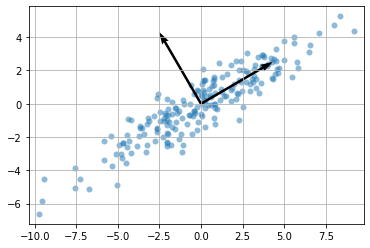
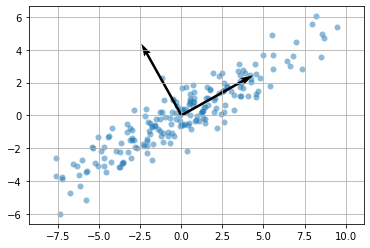
deploy: bd091ea647d80b9bc3fcd8ec3b6852a3f1c9b480

diff --git a/searchindex.js b/searchindex.js
@@ -1,1 +1,1 @@
-Search.setIndex({docnames:["index","notebooks/01_linear_systems","notebooks/02_LU_decomposition","notebooks/03_polynomial_interpolation","notebooks/04_spline_interpolation","notebooks/05_finite_difference_method","notebooks/06_least_squares_regression","notebooks/07_pca","notebooks/08_deblurring_images","notebooks/09_computed_tomography","notebooks/10_computing_eigenvalues","notebooks/11_pagerank","notebooks/12_fft","notebooks/13_convolution","notebooks/IntroFirstLecture","notebooks/IntroductionToPythonPart1","notebooks/IntroductionToPythonPart2","notebooks/Untitled"],envversion:{"sphinx.domains.c":2,"sphinx.domains.changeset":1,"sphinx.domains.citation":1,"sphinx.domains.cpp":3,"sphinx.domains.index":1,"sphinx.domains.javascript":2,"sphinx.domains.math":2,"sphinx.domains.python":2,"sphinx.domains.rst":2,"sphinx.domains.std":1,"sphinx.ext.intersphinx":1,sphinx:56},filenames:["index.md","notebooks/01_linear_systems.ipynb","notebooks/02_LU_decomposition.ipynb","notebooks/03_polynomial_interpolation.ipynb","notebooks/04_spline_interpolation.ipynb","notebooks/05_finite_difference_method.ipynb","notebooks/06_least_squares_regression.ipynb","notebooks/07_pca.ipynb","notebooks/08_deblurring_images.ipynb","notebooks/09_computed_tomography.ipynb","notebooks/10_computing_eigenvalues.ipynb","notebooks/11_pagerank.ipynb","notebooks/12_fft.ipynb","notebooks/13_convolution.ipynb","notebooks/IntroFirstLecture.ipynb","notebooks/IntroductionToPythonPart1.ipynb","notebooks/IntroductionToPythonPart2.ipynb","notebooks/Untitled.ipynb"],objects:{},objnames:{},objtypes:{},terms:{"00000000e":10,"005":[3,4],"01770738":11,"01770745853595147":11,"01785714":14,"01942114":11,"019421279035154358":11,"020169972924233483":11,"02017003":11,"021311938344943104":11,"02131198":11,"02193776":11,"021937862655879596":11,"022083002206294312":11,"0220831":11,"02494214":11,"024942160037662708":11,"02531937":11,"02531958513478689":11,"032639671745564314":11,"03263985":11,"03703704":14,"0375":11,"037500000000000006":11,"04058526837698405":11,"04058535":11,"04262304":11,"04262309034915124":11,"04860707":11,"048607261289628965":11,"05190652":11,"05190683619612836":11,"05736769":11,"0573677113789463":11,"05952284":11,"05952296970430072":11,"06617773":11,"06617804962445283":11,"07106781e":10,"08406075":11,"08406093298254406":11,"100":[3,5,10,11,12,14],"1000":[6,14],"10244901015399217":11,"10244902":11,"1056":7,"10mm":[1,2,5],"1100":12,"11111111":14,"115575244":3,"1168721825991377":11,"11687264":11,"11764706e":10,"120":9,"12429375672426346":11,"1242946":11,"13793103e":10,"14213562e":10,"14285714":14,"14609758":6,"14844492":6,"150":10,"1525":16,"16071429":14,"16666667":1,"1797":7,"180":16,"1a19a4a092db":15,"200":[3,4,7,8,9,14],"214":15,"215":15,"216":15,"217":15,"218":15,"220446049250313e":1,"23313981e":10,"24650102e":10,"24712881730381647":11,"24720132":11,"24782":8,"256":[8,14],"2q_k":5,"2x_1":[14,15],"32083333":11,"3236":16,"331042560716":8,"33333333":[1,2,11,14],"33333333e":10,"33486385":6,"368":10,"36886114e":10,"375":14,"38617379e":10,"39797215e":10,"3x3":15,"3x_2":[14,15],"40000000e":10,"41176471e":10,"41379310e":10,"41421356":10,"41421356e":10,"432x288":8,"43829925e":10,"44100":12,"45293347e":10,"46202587233194":10,"4622314739834":10,"4625":11,"46809736":11,"46824236539236713":11,"49999998":10,"4x_3":[14,15],"500":[6,12],"50000002":10,"50383318":7,"512":14,"52409613e":10,"530258040767446":4,"568d911ab75d":15,"5x_2":[14,15],"6289977":3,"66666667":[1,10],"6724":9,"68965517":10,"6pm":0,"70710675":10,"70710678":10,"70710681":10,"72413793":10,"750":12,"76358907e":10,"77302319e":10,"7762752":9,"78204976":6,"78720":9,"7x_3":[14,15],"809":16,"8284271247461903":15,"83766754":6,"86380097":7,"88235294e":10,"8875":11,"8x_3":[14,15],"90926744e":10,"9832831":6,"9840":9,"99957267":6,"default":12,"final":[15,16],"function":[1,2,4,6,7,8,10,11,15],"import":[1,2,3,4,5,6,7,8,9,10,11,12,14,15,16],"new":15,"return":[2,15,16],"true":[2,3,4,5,7,11,12,14],"try":3,And:[9,15,16],Axes:8,But:[3,14,15],For:[5,15,16],Such:15,That:[2,3,7,14,15],The:[0,1,2,3,4,5,6,7,9,10,14,15,16],Then:[10,14],There:[6,7,15,16],These:9,Use:[6,8],With:2,_eval_col_insert:15,a_0:10,a_2:5,a_c:[8,14],a_k:[5,9,10],a_k_plu:9,a_n:5,a_r:[8,14],about:[1,14,15,16],abov:[15,16],abs:[10,12],absolut:[2,10],ac_k_plu:[8,14],access:0,account:0,accur:15,actual:[9,15],acut:16,added:[0,4],addit:[0,14,15],adjac:11,adjacency_matrix:11,after:9,again:[6,15],algebra:[1,16],algorithm:[7,10],align:[2,3],all:[0,4,10,14,15],almost:6,alpha:[5,6,7,11,14],alreadi:15,also:10,alwai:2,amp:1,analys:15,angl:[7,9,12],ani:[0,2,15],anoth:15,answer:[0,15],append:3,applic:15,approx:5,approxim:[1,5,10,15],ar_k_plu:[8,14],arang:[8,12,14],arbitrari:6,aren:15,around:[3,15],arrai:[1,2,3,4,5,6,7,10,11,14,15],assign:0,assum:[0,14],astyp:[8,14],attent:16,aug:15,augment:15,averag:7,avoid:[8,9],axi:[5,7,11],b_1:5,b_2:5,b_e:9,b_k:5,b_n:5,base:6,basi:7,bc_type:4,becaus:3,been:7,befor:[0,6],begin:[1,2,3,5,6,14,15,16],belong:15,best:[6,15],beta:5,better:15,between:14,binari:[7,8],bit:16,block:[8,10],blur:14,bmatrix:[1,2,3,5,6,14,15,16],boldsymbol:[1,3],bone:9,bore:15,both:8,boundari:5,browser:[0,12],bug:15,build:6,c_0:[3,6],c_1:[3,5,6],c_1t:6,c_1t_1:3,c_1t_2:3,c_1t_d:3,c_1x:6,c_2:[3,5,6],c_2t:6,c_2x:6,c_d:[3,6],c_dt:6,c_k:[3,5],calcul:[6,15,16],call:[2,3,6,15,16],can:[0,6,9,10,14,16],canva:0,capabl:15,captur:7,cccccccc:[1,2],cd_d:6,cdot:[1,2,3,5,6],cell:16,chang:[3,4],check:[0,2,8,15],choic:6,choleski:2,choos:[5,10],circuilt:1,clear:15,clearli:15,click:0,clim:7,cmap:[2,7,8,9,11,14],coefficeint:6,coeffici:[3,4,6],col:[15,16],col_del:15,col_insert:15,collect:9,colorbar:[2,7,8],column:[2,6,7,8,15,16],column_stack:[6,7,14],columnspac:15,combin:8,come:15,command:15,common:[6,15],compar:[2,4,5,9,10,11,16],comput:[0,1,2,4,6,7,8,14,15,16],comut:2,concaten:5,cond:[3,4,8],condit:[3,5,8],confus:16,consid:[3,4,5],consist:1,constant:[1,15],constraint:14,construct:[4,6,14],contain:9,continu:4,converg:10,copi:12,correct:[6,15],correspond:[3,9,10],cos:[5,7,12],cours:[0,15],creat:[1,3,8,11,15,16],cs1:4,cs2:4,cs3:4,csc:9,csc_matrix:9,cube:16,cubic:3,cubicsplin:4,current:[0,1],cwl:0,data:[3,4,8,9,16],datapoint:14,dataset:9,dc_k_plu:[8,14],ddot:[1,2,3,5],decomposit:[7,10],decreas:8,defin:[4,5,10,15],definit:[2,11],degre:[3,6],demonstr:6,denot:5,deploi:0,describ:14,det:15,detail:0,determin:15,devic:14,dft:12,diag:[1,2,5,8,9,14,15],diagon:[8,10],did:15,differ:[6,9,16],differenti:5,digraph:11,dimens:16,dimension:16,direct:[8,11],discret:5,discuss:16,displai:12,displaystyl:15,distribut:6,document:2,doe:[12,14,15],domain:5,domin:10,done:[0,15],dot:[1,3,4,6,7],doubl:15,down:[14,15],dr_k_plu:[8,14],draw:11,due:[1,15],each:[3,4,5,7,9,10],earth:14,echelon:15,econom:6,edg:11,effici:7,eig:10,eigenvector:10,eignvalu:10,element:12,elementwis:16,elimin:2,ell_:2,email:14,end:[1,2,3,5,6,14,15,16],enough:15,entri:[2,15,16],epsilon:6,equal:[2,3,7,15],equat:[3,5,14,15,16],error:[1,6,9,14,15],ethan:0,eval:10,evec:10,even:16,everi:[0,7],exact:[1,5],exactli:6,exampl:[9,16],exercis:14,exist:3,exponenti:15,express:6,eye:[1,2,15,16],f1931db3b9ae:15,factor:6,fals:[2,7],familiar:0,faulti:14,figsiz:[3,7,9,12],figur:[3,7,8,9,12],file:[0,9],find:[2,8,11,14,15,16],fine:14,finish:15,finnish:9,fip:9,first:[0,2,6,7,15],flatten:7,float64:[8,14],follow:[0,9,14,15],form:[2,5,6,14,15],format:10,formula:5,found:0,four:15,frac:[5,7,10],from:[3,4,6,7,8,9,12,14,15,16],fun:15,gaussian:[2,7],gener:[5,6,14,15],get:[14,15,16],get_cmap:7,give:[3,14,15],given:[3,4,14],glimp:15,goal:6,good:10,googl:11,google_matrix:11,grai:[8,14],grid:[3,4,5,7,12,14],hand:2,handwritten:7,happen:3,has:[2,6,7,10,14,15,16],hat:[1,9],have:[0,6,9,10,14,15,16],help:15,homework:14,horizont:8,hour:0,how:[8,14,15,16],howev:[7,9,15,16],hspace:[1,2,5],hstack:[8,14],hub:0,huge:9,i_1:1,i_n:1,idea:6,ident:16,ifft:12,imag:7,implement:[7,10],imread:[8,14],imshow:[2,7,8,9,14],includ:7,inconsist:15,increas:[3,10,14],inde:10,index:[1,9,15],indic:15,inform:[0,7,14],infti:10,input:15,insert:15,instal:0,instructor:0,interest:16,internet:15,interpol:7,interst:15,interv:[6,14],introduc:[3,5],introduct:0,inv:15,invers:[9,15],invert:[9,10,15],ipython:[12,15],irrat:15,iter:11,its:16,jet:7,jpg:[8,14],jupyt:0,just:[6,15],keep:16,kitten:[8,14],know:[3,10,15],knowledg:0,l_1:2,l_2:2,lambda:10,lambda_1:10,lambda_n:10,languag:15,larg:[3,9],largest:9,last:[15,16],later:15,learn:[1,7,15],least:[6,14],left:[1,2,5,6,8,14,15],len:3,length:[7,16],leq:2,less:2,let:[2,3,4,5,6,7,8,9,10,14,15,16],lib:15,librari:[15,16],like:14,linalg:[2,3,4,5,6,7,8,9,10,11,12,14,16],line:6,linear:[4,5,14,15,16],linearli:8,linewidth:[6,14],link:0,linspac:[3,4,5,6,14],list:16,llet:5,load_digit:7,loadmat:[8,9,14],local:15,locat:7,look:[6,9,14],loop:1,lot:[14,15],lower:2,lu_factor:10,lu_solv:10,machin:[7,15],magnitud:12,mai:16,mainli:15,make:15,mani:15,markers:[3,4,14],mat:9,math:15,mathbb:[7,15],mathbf:[2,5,6,7,9,10,14],mathemat:[0,1],matlab:16,matplotlib:[1,2,3,4,5,6,7,8,9,10,11,12,14,15],matric:[6,9,15,16],matrix:[1,2,3,4,6,7,8,10,11,14,15],matrix_pow:16,max:10,mean:[6,7,10],measur:14,memori:9,method:[6,10,11,16],minim:[6,14],mode:6,model:1,modul:15,modulenotfounderror:15,more:15,most:[6,7,14,15],mpow:16,multipl:[8,10,15],multiplc:16,multipli:15,must:[15,16],n_link:11,n_page:11,nak:10,name:15,nameerror:15,nbyte:9,ndarrai:[1,9],ndim:16,need:[0,8,9,15,16],neg:15,networkx:11,next:15,nice:3,niter:10,nmax:3,node_color:11,nois:[3,4,6,9,14],non:15,none:5,norm:[1,10],normal:[7,10],normliz:7,notat:[5,6],note:[0,11,15],notebook:[0,13],notic:16,now:[2,4,6,10,14,15],nullspac:15,number:[3,6,8,10,14,15,16],numer:[15,16],numpi:[1,2,3,4,5,6,7,8,9,10,11,12,14,15],nxk:10,object:16,off:15,offic:0,onc:0,one:[15,16],ones:[1,2,5,6,8,11,14,15],onli:15,onto:7,oper:15,order:[5,9,15],ordinari:5,origin:7,orthogon:7,orthonorm:7,other:[10,14,15],our:[1,4,11,15,16],out:15,output:16,p_1:[4,5],p_2:4,p_k:[4,5],p_n:[4,5],packag:[1,7,15],page:0,parabola:3,parallel:1,part:0,partial:2,particular:9,paus:10,pca:7,perform:[0,11,16],permut:2,phantom:2,phase:12,phi:12,piecewis:4,pivot:[2,15],pixel:7,plai:15,pleas:0,plot:[1,2,3,4,5,6,7,14],plt:[1,2,3,4,5,6,7,8,9,10,11,12,14],plu:2,point:[3,4,6,7],polyniomi:3,polynomi:4,pos:[11,15],posit:[1,2],post:0,power:11,precis:15,prepar:9,pretti:10,previou:14,print:[1,2,3,6,10,14,16],prior:0,problem:[9,15,16],produc:10,program:15,proj:9,project:[7,14],provid:9,pseudoinvers:[8,9,14],pst:0,pyplot:[1,2,3,4,5,6,7,8,9,10,11,12,14],python3:15,python:7,q_1:6,q_1r_1:6,q_k:10,qtc:[8,14],qtr:[8,14],quad:[14,15],quantifi:6,question:0,quick:16,quiver:7,quotient:10,r_1:[5,6],r_2:5,r_k:[5,10],r_n:5,rai:9,rais:15,rand:[6,14],randint:[4,9,11],randn:[3,4,6,7,8,10,14],random:[3,4,6,7,8,9,12,14],rang:[3,7,9,10,11],rank:9,rate:12,rather:15,rayleigh:10,rcparam:12,reach:14,real:[10,12],rearrang:5,recal:16,recent:[0,15],record:8,reduc:15,repeat:[5,10],repres:[1,6,8,9],requir:[0,16],resembl:14,reshap:[4,7,9,16],residu:1,result:[2,4,6,7,9,10,16],retriev:6,review:16,right:[0,1,2,5,6,7,8,14,15],rocket:0,round:1,row:[2,6,7,8,9,15,16],row_insert:15,rrcrr:5,rref:15,rrr:2,run:0,sagemath:15,said:15,same:[6,8,10,15,16],sampl:[6,9],save:9,saw:16,scalar:15,scale:7,scale_unit:7,scatter:[6,7,14],scientist:14,scipi:[2,3,4,5,6,7,8,9,10,11,12,14,15,16],second:5,see:[6,10,14,15],seek:7,select:[7,16],self:15,sensit:[3,4],set:[6,12,14],set_cmap:8,shape:[6,7,8,9,15,16],shapeerror:15,show:[1,2,3,4,5,6,7,8,9,12,14,15],side:[0,14],sigma:7,sign:0,similar:10,sin:[3,4,7],sinc:[10,15],singular:[7,9],site:15,size:[1,3,4,5,8,10,12,15,16],sklearn:7,sla:9,sleep:10,slice:16,small:[3,4,15],smallest:10,smooth:4,societi:9,softwar:0,solut:[1,2,3,5,6,14],solv:[2,3,4,5,6,8,9,14],solve_triangular:2,some:[1,3,6,8,14,15,16],space:[3,15],spars:9,specifi:15,spring_layout:11,spy:9,sqrt:[10,15],squar:[1,6,8,9,14],sse:6,standard:6,start:[3,10],stem:12,step:10,still:[0,14],stochast:11,student:0,subinterv:4,subpackag:16,subplot:[9,12],substitut:5,substract:15,subtract:7,sum:[3,6,11,12],sum_:7,sum_i:6,support:12,suppos:[6,10],svd:[7,14],symbol:[15,16],symmetr:[2,10,16],sympi:16,system:[2,3,4,5,6,14,15],syzygi:0,szgygi:0,t_0:[3,4,5,6],t_1:[3,6],t_2:3,t_d:3,t_f:5,t_i:6,t_k:[3,4,5],t_n:[3,4,6],tab:0,take:[0,15,16],talk:16,target:7,tell:15,term:0,than:[2,15],thei:[10,16],theme:15,therefor:[2,8,10],theta:7,thi:[0,2,3,6,10,14,15,16],thin:6,think:16,though:16,through:9,throughout:0,tick:7,tild:10,time:[6,7,8,10,15,16],titl:[3,12],toarrai:11,todai:16,toeplitz:14,tomograph:9,total:16,traceback:15,track:16,transpos:[11,15,16],triangular:[2,6,10],truncat:14,tupl:[15,16],tutori:15,two:[0,6,7,16],type:[1,9,16],ubc:0,unblur:14,uniqu:[3,6,15],unit:2,unknown:3,updat:0,upload:0,upper:[0,2,6,10],use:[0,4,6,7,9,14,16],use_line_collect:12,used:[0,11],useful:16,using:[0,1,2,3,6,8,14,16],usual:10,valu:[2,3,4,7,8,9,10,15,16],vander:[3,14],vandermond:[3,6],variabl:[15,16],varianc:7,vdot:[1,2,3,5,6],vector:[6,7,9,10,11,15,16],veri:[3,14],verifi:[2,4,16],vert:6,vertic:[8,11],visual:9,wai:[6,15],walnut:9,want:[4,6,15,16],wednesdai:0,week:0,weight:7,what:[3,6,15],when:[3,15,16],where:[1,2,5,6,8,9,15,16],which:[0,3,6,7,10,14,15,16],white:0,whole:15,why:15,winter:[2,11],with_label:11,without:[0,2,10],word:14,work:[6,15],write:[14,15],wrong:15,x2d:7,x_0:14,x_1:[14,15],x_2:14,x_3:14,x_filter:12,xlabel:[1,3],y_0:[3,4,6,14],y_1:[3,5,6,14],y_2:[3,5,14],y_3:14,y_angl:12,y_d:3,y_filter:12,y_i:6,y_k:[3,4,5],y_n:[4,5,6],yes:[14,15],yield:[3,5],yike:3,ylabel:1,you:[0,14,16],your:[0,12,15],yourself:0,zero:[5,8,11,14,15]},titles:["MATH 307 Applied Linear Algebra","Linear Systems of Equations","LU Decomposition","Polynomial Interpolation","Natural Cubic Spline Interpolation","Finite Difference Method","Fitting Models to Data","Principal Component Analysis","Deblurring Images","Computed Tomography","Computing Eigenvalues","PageRank","Discrete Fourier Transform","Test page","MATH 307  \u2013   What is it useful for","Introduction to Python - Part 1","Introduction to Python - Part 2: NumPy","&lt;no title&gt;"],titleterms:{"307":[0,14],"function":16,"true":9,"try":15,algebra:0,alwai:15,analysi:7,appli:0,arithmet:16,arrai:16,attribut:16,audio:12,befor:15,blur:8,can:15,check:16,compon:7,comput:[9,10,12],cubic:4,data:[6,7,14],dataset:7,deblur:[8,14],decomposit:[2,6],differ:5,digit:7,discret:12,eigenvalu:10,equat:[1,6],exampl:[1,2,3,4,5,6,11,12,15],fake:[6,7],fft:12,filter:12,finit:5,fit:6,fourier:12,graph:11,imag:[8,14],interpol:[3,4,14],introduct:[15,16],invers:10,invert:8,iter:10,linalg:1,linear:[0,1,6],math:[0,14],mathbf:1,matric:[8,10],matrix:[9,16],measur:9,method:5,model:6,multipl:16,natur:4,network:1,nois:8,noisi:6,normal:6,numpi:16,oper:16,page:13,pagerank:11,part:[15,16],plai:12,point:14,polynomi:[3,6],power:[10,16],princip:7,project:9,python:[0,15,16],quadrat:6,random:[10,11],read:15,regress:6,resistor:1,scipi:1,should:15,signal:12,sinogram:9,sinusoid:12,small:11,solut:[9,15],solv:[1,15],spline:4,svd:[8,9],sympi:15,system:1,test:13,them:15,toeplitz:8,tomographi:9,trace:16,tranpos:16,transform:12,truncat:[8,9],understand:16,use:15,useful:14,what:14,you:15,your:16}})
+Search.setIndex({docnames:["index","notebooks/01_linear_systems","notebooks/02_LU_decomposition","notebooks/03_polynomial_interpolation","notebooks/04_spline_interpolation","notebooks/05_finite_difference_method","notebooks/06_least_squares_regression","notebooks/07_pca","notebooks/08_deblurring_images","notebooks/09_computed_tomography","notebooks/10_computing_eigenvalues","notebooks/11_pagerank","notebooks/12_fft","notebooks/13_convolution","notebooks/IntroFirstLecture","notebooks/IntroductionToPythonPart1","notebooks/IntroductionToPythonPart2","notebooks/Untitled"],envversion:{"sphinx.domains.c":2,"sphinx.domains.changeset":1,"sphinx.domains.citation":1,"sphinx.domains.cpp":3,"sphinx.domains.index":1,"sphinx.domains.javascript":2,"sphinx.domains.math":2,"sphinx.domains.python":2,"sphinx.domains.rst":2,"sphinx.domains.std":1,"sphinx.ext.intersphinx":1,sphinx:56},filenames:["index.md","notebooks/01_linear_systems.ipynb","notebooks/02_LU_decomposition.ipynb","notebooks/03_polynomial_interpolation.ipynb","notebooks/04_spline_interpolation.ipynb","notebooks/05_finite_difference_method.ipynb","notebooks/06_least_squares_regression.ipynb","notebooks/07_pca.ipynb","notebooks/08_deblurring_images.ipynb","notebooks/09_computed_tomography.ipynb","notebooks/10_computing_eigenvalues.ipynb","notebooks/11_pagerank.ipynb","notebooks/12_fft.ipynb","notebooks/13_convolution.ipynb","notebooks/IntroFirstLecture.ipynb","notebooks/IntroductionToPythonPart1.ipynb","notebooks/IntroductionToPythonPart2.ipynb","notebooks/Untitled.ipynb"],objects:{},objnames:{},objtypes:{},terms:{"00000000e":10,"005":[3,4],"01458892":11,"014589006566058464":11,"017688972050492646":11,"01768906":11,"01785714":14,"01812693":11,"0181270930819558":11,"019878680266857223":11,"01987899":11,"02750009904997474":11,"02750024":11,"03501085399942825":11,"0350111":11,"03647761":11,"036477707871008035":11,"03703704":14,"0375":11,"037500000000000006":11,"03788842506466396":11,"03788857":11,"04040475005586697":11,"04040493":11,"04066901355533149":11,"04066909":11,"04260559":11,"04260563287232839":11,"04823005029323108":11,"0482304":11,"05913904":11,"059139498320155796":11,"05995085":6,"06242162":11,"062422135163710174":11,"07106781e":10,"07265656":11,"07265700224035669":11,"07583266932573471":11,"075833":11,"07717481":11,"07717492884774745":11,"07772191":11,"07772199479385326":11,"08945234":11,"08945248457323142":11,"100":[3,5,10,11,12,14],"1000":[6,14],"1056":7,"10652900200801357":11,"10652929":11,"10mm":[1,2,5],"1100":12,"11111111":14,"115575244":3,"11764706e":10,"120":9,"13793103e":10,"14213562e":10,"14285714":14,"150":10,"1525":16,"16071429":14,"16666667":1,"1797":7,"180":16,"1a19a4a092db":15,"200":[3,4,7,8,9,14],"214":15,"215":15,"216":15,"217":15,"218":15,"220446049250313e":1,"23313981e":10,"24650102e":10,"24712881730381647":11,"24720132":11,"24782":8,"256":[8,14],"2q_k":5,"2x_1":[14,15],"32083333":11,"3236":16,"32440207":6,"331042562946":8,"33333333":[1,2,11,14],"33333333e":10,"36886114e":10,"375":14,"381":10,"38617379e":10,"39797215e":10,"3x3":15,"3x_2":[14,15],"40000000e":10,"41176471e":10,"41379310e":10,"41421356":10,"41421356e":10,"432x288":8,"43829925e":10,"44100":12,"45293347e":10,"4625":11,"46809736":11,"46824236539236713":11,"48815899":7,"49999998":10,"4x_3":[14,15],"500":[6,12],"50000002":10,"512":14,"52409613e":10,"530258040767459":4,"568d911ab75d":15,"5x_2":[14,15],"64217655":3,"66666667":[1,10],"6724":9,"68965517":10,"6pm":0,"70710675":10,"70710678":10,"70710681":10,"71885163":6,"72413793":10,"750":12,"76358907e":10,"76806357":6,"77302319e":10,"7762752":9,"78720":9,"7x_3":[14,15],"809":16,"8284271247461903":15,"87275472":7,"88235294e":10,"8875":11,"8x_3":[14,15],"90498146":6,"90926744e":10,"9695150772683":10,"9695150778052":10,"97333208":6,"97394044":6,"9840":9,"default":12,"final":[15,16],"function":[1,2,4,6,7,8,10,11,15],"import":[1,2,3,4,5,6,7,8,9,10,11,12,14,15,16],"new":15,"return":[2,15,16],"true":[2,3,4,5,7,11,12,14],"try":3,And:[9,15,16],Axes:8,But:[3,14,15],For:[5,15,16],Such:15,That:[2,3,7,14,15],The:[0,1,2,3,4,5,6,7,9,10,14,15,16],Then:[10,14],There:[6,7,15,16],These:9,Use:[6,8],With:2,_eval_col_insert:15,a_0:10,a_2:5,a_c:[8,14],a_k:[5,9,10],a_k_plu:9,a_n:5,a_r:[8,14],about:[1,14,15,16],abov:[15,16],abs:[10,12],absolut:[2,10],ac_k_plu:[8,14],access:0,account:0,accur:15,actual:[9,15],acut:16,added:[0,4],addit:[0,14,15],adjac:11,adjacency_matrix:11,after:9,again:[6,15],algebra:[1,16],algorithm:[7,10],align:[2,3],all:[0,4,10,14,15],almost:6,alpha:[5,6,7,11,14],alreadi:15,also:10,alwai:2,amp:1,analys:15,angl:[7,9,12],ani:[0,2,15],anoth:15,answer:[0,15],append:3,applic:15,approx:5,approxim:[1,5,10,15],ar_k_plu:[8,14],arang:[8,12,14],arbitrari:6,aren:15,around:[3,15],arrai:[1,2,3,4,5,6,7,10,11,14,15],assign:0,assum:[0,14],astyp:[8,14],attent:16,aug:15,augment:15,averag:7,avoid:[8,9],axi:[5,7,11],b_1:5,b_2:5,b_e:9,b_k:5,b_n:5,base:6,basi:7,bc_type:4,becaus:3,been:7,befor:[0,6],begin:[1,2,3,5,6,14,15,16],belong:15,best:[6,15],beta:5,better:15,between:14,binari:[7,8],bit:16,block:[8,10],blur:14,bmatrix:[1,2,3,5,6,14,15,16],boldsymbol:[1,3],bone:9,bore:15,both:8,boundari:5,browser:[0,12],bug:15,build:6,c_0:[3,6],c_1:[3,5,6],c_1t:6,c_1t_1:3,c_1t_2:3,c_1t_d:3,c_1x:6,c_2:[3,5,6],c_2t:6,c_2x:6,c_d:[3,6],c_dt:6,c_k:[3,5],calcul:[6,15,16],call:[2,3,6,15,16],can:[0,6,9,10,14,16],canva:0,capabl:15,captur:7,cccccccc:[1,2],cd_d:6,cdot:[1,2,3,5,6],cell:16,chang:[3,4],check:[0,2,8,15],choic:6,choleski:2,choos:[5,10],circuilt:1,clear:15,clearli:15,click:0,clim:7,cmap:[2,7,8,9,11,14],coefficeint:6,coeffici:[3,4,6],col:[15,16],col_del:15,col_insert:15,collect:9,colorbar:[2,7,8],column:[2,6,7,8,15,16],column_stack:[6,7,14],columnspac:15,combin:8,come:15,command:15,common:[6,15],compar:[2,4,5,9,10,11,16],comput:[0,1,2,4,6,7,8,14,15,16],comut:2,concaten:5,cond:[3,4,8],condit:[3,5,8],confus:16,consid:[3,4,5],consist:1,constant:[1,15],constraint:14,construct:[4,6,14],contain:9,continu:4,converg:10,copi:12,correct:[6,15],correspond:[3,9,10],cos:[5,7,12],cours:[0,15],creat:[1,3,8,11,15,16],cs1:4,cs2:4,cs3:4,csc:9,csc_matrix:9,cube:16,cubic:3,cubicsplin:4,current:[0,1],cwl:0,data:[3,4,8,9,16],datapoint:14,dataset:9,dc_k_plu:[8,14],ddot:[1,2,3,5],decomposit:[7,10],decreas:8,defin:[4,5,10,15],definit:[2,11],degre:[3,6],demonstr:6,denot:5,deploi:0,describ:14,det:15,detail:0,determin:15,devic:14,dft:12,diag:[1,2,5,8,9,14,15],diagon:[8,10],did:15,differ:[6,9,16],differenti:5,digraph:11,dimens:16,dimension:16,direct:[8,11],discret:5,discuss:16,displai:12,displaystyl:15,distribut:6,document:2,doe:[12,14,15],domain:5,domin:10,done:[0,15],dot:[1,3,4,6,7],doubl:15,down:[14,15],dr_k_plu:[8,14],draw:11,due:[1,15],each:[3,4,5,7,9,10],earth:14,echelon:15,econom:6,edg:11,effici:7,eig:10,eigenvector:10,eignvalu:10,element:12,elementwis:16,elimin:2,ell_:2,email:14,end:[1,2,3,5,6,14,15,16],enough:15,entri:[2,15,16],epsilon:6,equal:[2,3,7,15],equat:[3,5,14,15,16],error:[1,6,9,14,15],ethan:0,eval:10,evec:10,even:16,everi:[0,7],exact:[1,5],exactli:6,exampl:[9,16],exercis:14,exist:3,exponenti:15,express:6,eye:[1,2,15,16],f1931db3b9ae:15,factor:6,fals:[2,7],familiar:0,faulti:14,figsiz:[3,7,9,12],figur:[3,7,8,9,12],file:[0,9],find:[2,8,11,14,15,16],fine:14,finish:15,finnish:9,fip:9,first:[0,2,6,7,15],flatten:7,float64:[8,14],follow:[0,9,14,15],form:[2,5,6,14,15],format:10,formula:5,found:0,four:15,frac:[5,7,10],from:[3,4,6,7,8,9,12,14,15,16],fun:15,gaussian:[2,7],gener:[5,6,14,15],get:[14,15,16],get_cmap:7,give:[3,14,15],given:[3,4,14],glimp:15,goal:6,good:10,googl:11,google_matrix:11,grai:[8,14],grid:[3,4,5,7,12,14],hand:2,handwritten:7,happen:3,has:[2,6,7,10,14,15,16],hat:[1,9],have:[0,6,9,10,14,15,16],help:15,here:16,homework:14,horizont:8,hour:0,how:[8,14,15,16],howev:[7,9,15,16],hspace:[1,2,5],hstack:[8,14],hub:0,huge:9,i_1:1,i_n:1,idea:6,ident:16,ifft:12,imag:7,implement:[7,10],imread:[8,14],imshow:[2,7,8,9,14],includ:7,inconsist:15,increas:[3,10,14],inde:10,index:[1,9,15],indic:15,inform:[0,7,14],infti:10,input:15,insert:15,instal:0,instructor:0,interest:16,internet:15,interpol:7,interst:15,interv:[6,14],introduc:[3,5],introduct:0,inv:15,invers:[9,15],invert:[9,10,15],ipython:[12,15],irrat:15,iter:11,its:16,jet:7,jpg:[8,14],jupyt:0,just:[6,15],keep:16,kitten:[8,14],know:[3,10,15],knowledg:0,l_1:2,l_2:2,lambda:10,lambda_1:10,lambda_n:10,languag:15,larg:[3,9],largest:9,last:[15,16],later:15,learn:[1,7,15],least:[6,14],left:[1,2,5,6,8,14,15],len:3,length:[7,16],leq:2,less:2,let:[2,3,4,5,6,7,8,9,10,14,15,16],lib:15,librari:[15,16],like:14,linalg:[2,3,4,5,6,7,8,9,10,11,12,14,16],line:6,linear:[4,5,14,15,16],linearli:8,linewidth:[6,14],link:0,linspac:[3,4,5,6,14],list:16,llet:5,load_digit:7,loadmat:[8,9,14],local:15,locat:7,look:[6,9,14],loop:1,lot:[14,15],lower:2,lu_factor:10,lu_solv:10,machin:[7,15],magnitud:12,mai:16,mainli:15,make:15,mani:15,markers:[3,4,14],mat:9,math:15,mathbb:[7,15],mathbf:[2,5,6,7,9,10,14],mathemat:[0,1],matlab:16,matplotlib:[1,2,3,4,5,6,7,8,9,10,11,12,14,15],matric:[6,9,15,16],matrix:[1,2,3,4,6,7,8,10,11,14,15],matrix_pow:16,max:10,mean:[6,7,10],measur:14,memori:9,method:[6,10,11,16],minim:[6,14],mode:6,model:1,modul:15,modulenotfounderror:15,more:15,most:[6,7,14,15],mpow:16,multipl:[8,10,15],multiplc:16,multipli:15,must:[15,16],n_link:11,n_page:11,nak:10,name:15,nameerror:15,nbyte:9,ndarrai:[1,9],ndim:16,need:[0,8,9,15,16],neg:15,networkx:11,next:15,nice:3,niter:10,nmax:3,node_color:11,nois:[3,4,6,9,14],non:15,none:5,norm:[1,10],normal:[7,10],normliz:7,notat:[5,6],note:[0,11,15],notebook:[0,13],notic:16,now:[2,4,6,10,14,15],nullspac:15,number:[3,6,8,10,14,15,16],numer:[15,16],numpi:[1,2,3,4,5,6,7,8,9,10,11,12,14,15],nxk:10,object:16,off:15,offic:0,onc:0,one:[15,16],ones:[1,2,5,6,8,11,14,15],onli:15,onto:7,oper:15,order:[5,9,15],ordinari:5,origin:7,orthogon:7,orthonorm:7,other:[10,14,15],our:[1,4,11,15,16],out:15,output:16,p_1:[4,5],p_2:4,p_k:[4,5],p_n:[4,5],packag:[1,7,15],page:0,parabola:3,parallel:1,part:0,partial:2,particular:9,paus:10,pca:7,perform:[0,11,16],permut:2,phantom:2,phase:12,phi:12,piecewis:4,pivot:[2,15],pixel:7,plai:15,pleas:0,plot:[1,2,3,4,5,6,7,14],plt:[1,2,3,4,5,6,7,8,9,10,11,12,14],plu:2,point:[3,4,6,7],polyniomi:3,polynomi:4,pos:[11,15],posit:[1,2],post:0,power:11,precis:15,prepar:9,pretti:10,previou:14,print:[1,2,3,6,10,14,16],prior:0,problem:[9,15,16],produc:10,program:15,proj:9,project:[7,14],provid:9,pseudoinvers:[8,9,14],pst:0,pyplot:[1,2,3,4,5,6,7,8,9,10,11,12,14],python3:15,python:7,q_1:6,q_1r_1:6,q_k:10,qtc:[8,14],qtr:[8,14],quad:[14,15],quantifi:6,question:0,quick:16,quiver:7,quotient:10,r_1:[5,6],r_2:5,r_k:[5,10],r_n:5,rai:9,rais:15,rand:[6,14],randint:[4,9,11],randn:[3,4,6,7,8,10,14],random:[3,4,6,7,8,9,12,14],rang:[3,7,9,10,11],rank:9,rate:12,rather:15,rayleigh:10,rcparam:12,reach:14,real:[10,12],rearrang:5,recal:16,recent:[0,15],record:8,reduc:15,repeat:[5,10],repres:[1,6,8,9],requir:[0,16],resembl:14,reshap:[4,7,9,16],residu:1,result:[2,4,6,7,9,10,16],retriev:6,review:16,right:[0,1,2,5,6,7,8,14,15],rocket:0,round:1,row:[2,6,7,8,9,15,16],row_insert:15,rrcrr:5,rref:15,rrr:2,run:0,sagemath:15,said:15,same:[6,8,10,15,16],sampl:[6,9],save:9,saw:16,scalar:15,scale:7,scale_unit:7,scatter:[6,7,14],scientist:14,scipi:[2,3,4,5,6,7,8,9,10,11,12,14,15,16],second:5,see:[6,10,14,15],seek:7,select:[7,16],self:15,sensit:[3,4],set:[6,12,14],set_cmap:8,shape:[6,7,8,9,15,16],shapeerror:15,show:[1,2,3,4,5,6,7,8,9,12,14,15],side:[0,14],sigma:7,sign:0,similar:10,sin:[3,4,7],sinc:[10,15],singular:[7,9],site:15,size:[1,3,4,5,8,10,12,15,16],sklearn:7,sla:9,sleep:10,slice:16,small:[3,4,15],smallest:10,smooth:4,societi:9,softwar:0,solut:[1,2,3,5,6,14],solv:[2,3,4,5,6,8,9,14],solve_triangular:2,some:[1,3,6,8,14,15,16],space:[3,15],spars:9,specifi:15,spring_layout:11,spy:9,sqrt:[10,15],squar:[1,6,8,9,14],sse:6,standard:6,start:[3,10],stem:12,step:10,still:[0,14],stochast:11,student:0,subinterv:4,subpackag:16,subplot:[9,12],substitut:5,substract:15,subtract:7,sum:[3,6,11,12],sum_:7,sum_i:6,support:12,suppos:[6,10],svd:[7,14],symbol:[15,16],symmetr:[2,10,16],sympi:16,system:[2,3,4,5,6,14,15],syzygi:0,szgygi:0,t_0:[3,4,5,6],t_1:[3,6],t_2:3,t_d:3,t_f:5,t_i:6,t_k:[3,4,5],t_n:[3,4,6],tab:0,take:[0,15,16],talk:16,target:7,tell:15,term:0,than:[2,15],thei:[10,16],theme:15,therefor:[2,8,10],theta:7,thi:[0,2,3,6,10,14,15,16],thin:6,think:16,though:16,through:9,throughout:0,tick:7,tild:10,time:[6,7,8,10,15,16],titl:[3,12],toarrai:11,toeplitz:14,tomograph:9,total:16,traceback:15,track:16,transpos:[11,15,16],triangular:[2,6,10],truncat:14,tupl:[15,16],tutori:15,two:[0,6,7,16],type:[1,9,16],ubc:0,unblur:14,uniqu:[3,6,15],unit:2,unknown:3,updat:0,upload:0,upper:[0,2,6,10],use:[0,4,6,7,9,14,16],use_line_collect:12,used:[0,11],useful:16,using:[0,1,2,3,6,8,14,16],usual:10,valu:[2,3,4,7,8,9,10,15,16],vander:[3,14],vandermond:[3,6],variabl:[15,16],varianc:7,vdot:[1,2,3,5,6],vector:[6,7,9,10,11,15,16],veri:[3,14],verifi:[2,4,16],vert:6,vertic:[8,11],visual:9,wai:[6,15],walnut:9,want:[4,6,15,16],wednesdai:0,week:0,weight:7,what:[3,6,15],when:[3,15,16],where:[1,2,5,6,8,9,15,16],which:[0,3,6,7,10,14,15,16],white:0,whole:15,why:15,winter:[2,11],with_label:11,without:[0,2,10],word:14,work:[6,15],write:[14,15],wrong:15,x2d:7,x_0:14,x_1:[14,15],x_2:14,x_3:14,x_filter:12,xlabel:[1,3],y_0:[3,4,6,14],y_1:[3,5,6,14],y_2:[3,5,14],y_3:14,y_angl:12,y_d:3,y_filter:12,y_i:6,y_k:[3,4,5],y_n:[4,5,6],yes:[14,15],yield:[3,5],yike:3,ylabel:1,you:[0,14,16],your:[0,12,15],yourself:0,zero:[5,8,11,14,15]},titles:["MATH 307 Applied Linear Algebra","Linear Systems of Equations","LU Decomposition","Polynomial Interpolation","Natural Cubic Spline Interpolation","Finite Difference Method","Fitting Models to Data","Principal Component Analysis","Deblurring Images","Computed Tomography","Computing Eigenvalues","PageRank","Discrete Fourier Transform","Test page","MATH 307  \u2013   What is it useful for","Introduction to Python - Part 1","Introduction to Python - Part 2: NumPy","&lt;no title&gt;"],titleterms:{"307":[0,14],"function":16,"true":9,"try":15,algebra:0,alwai:15,analysi:7,appli:0,arithmet:16,arrai:16,attribut:16,audio:12,befor:15,blur:8,can:15,check:16,compon:7,comput:[9,10,12],cubic:4,data:[6,7,14],dataset:7,deblur:[8,14],decomposit:[2,6],differ:5,digit:7,discret:12,eigenvalu:10,equat:[1,6],exampl:[1,2,3,4,5,6,11,12,15],fake:[6,7],fft:12,filter:12,finit:5,fit:6,fourier:12,graph:11,imag:[8,14],interpol:[3,4,14],introduct:[15,16],invers:10,invert:8,iter:10,linalg:1,linear:[0,1,6],math:[0,14],mathbf:1,matric:[8,10],matrix:[9,16],measur:9,method:5,model:6,multipl:16,natur:4,network:1,nois:8,noisi:6,normal:6,numpi:16,oper:16,page:13,pagerank:11,part:[15,16],plai:12,point:14,polynomi:[3,6],power:[10,16],princip:7,project:9,python:[0,15,16],quadrat:6,random:[10,11],read:15,regress:6,resistor:1,scipi:1,should:15,signal:12,sinogram:9,sinusoid:12,small:11,solut:[9,15],solv:[1,15],spline:4,svd:[8,9],sympi:15,system:1,test:13,them:15,toeplitz:8,tomographi:9,trace:16,tranpos:16,transform:12,truncat:[8,9],understand:16,use:15,useful:14,what:14,you:15,your:16}})

diff --git a/notebooks/IntroductionToPythonPart1.html b/notebooks/IntroductionToPythonPart1.html
@@ -779,21 +779,17 @@ Lets try it again</p>
 </div>
 <div class="section" id="examples-you-should-try-to-solve-them-before-reading-the-solution">
 <h1>Examples (You should try to solve them before reading the solution!)<a class="headerlink" href="#examples-you-should-try-to-solve-them-before-reading-the-solution" title="Permalink to this headline">¶</a></h1>
-<div class="cell docutils container">
-<div class="cell_input docutils container">
-<div class="highlight-ipython3 notranslate"><div class="highlight"><pre><span></span>**Solved examples**
-
-1. Find the general solution of the linear system:  $$
-\begin{array}{ r @{{}={}} r  &gt;{{}}c&lt;{{}} r  &gt;{{}}c&lt;{{}}  r }
+<p><strong>Solved examples</strong></p>
+<ol class="simple">
+<li><p>Find the general solution of the linear system:  $<span class="math notranslate nohighlight">\(
+\begin{array}{ r &#64;{{}={}} r  &gt;{{}}c&lt;{{}} r  &gt;{{}}c&lt;{{}}  r }
 x_1 &amp;-&amp; 3x_2 &amp;+&amp; 4x_3 &amp;=&amp;  1 \\
 -2x_1 &amp;+&amp;  5x_2 &amp;-&amp; 7x_3 &amp;=&amp; 1 \\
 x_1 &amp;-&amp; 5x_2 &amp;+&amp; 8x_3 &amp;=&amp; 5 \\
 \end{array}
-$$
-
-
-2. Does the matrix equation $Ax = b$ have a solution? If yes, write down the general solution of the system:  
-$$ 
+\)</span>$</p></li>
+<li><p>Does the matrix equation <span class="math notranslate nohighlight">\(Ax = b\)</span> have a solution? If yes, write down the general solution of the system:<br />
+$<span class="math notranslate nohighlight">\( 
 A = 
 \begin{bmatrix}
 2 &amp; -8 &amp; 4 &amp; 2 \\
@@ -804,9 +800,9 @@ A =
 b = \begin{bmatrix}
 1 \\ 2 \\ 5 \\ 2
 \end{bmatrix}
-$$
-3. What about the equation $Bx = c$? If it has a solution, write it down in the most general form:    
-$$
+\)</span>$</p></li>
+<li><p>What about the equation <span class="math notranslate nohighlight">\(Bx = c\)</span>? If it has a solution, write it down in the most general form:<br />
+$<span class="math notranslate nohighlight">\(
 B = \begin{bmatrix}
 1 &amp; 1 &amp; 1 &amp; 1 \\
 1 &amp; 1 &amp; -1 &amp; -1 \\
@@ -816,11 +812,8 @@ B = \begin{bmatrix}
 c = \begin{bmatrix}
 3 \\ 1 \\ 0 \\ 1
 \end{bmatrix}
-$$
-</pre></div>
-</div>
-</div>
-</div>
+\)</span>$</p></li>
+</ol>
 <p><em>Solution to example 1</em></p>
 <p>First create the matrix for the system, and the column vector of constants.</p>
 <div class="cell docutils container">

diff --git a/notebooks/11_pagerank.html b/notebooks/11_pagerank.html
@@ -444,10 +444,10 @@
 </div>
 </div>
 <div class="cell_output docutils container">
-<div class="output text_plain highlight-myst-ansi notranslate"><div class="highlight"><pre><span></span>array([0.03263985, 0.05736769, 0.02494214, 0.05190652, 0.05952284,
-       0.0220831 , 0.10244902, 0.02131198, 0.1242946 , 0.11687264,
-       0.04058535, 0.02017003, 0.04262304, 0.08406075, 0.01942114,
-       0.02531937, 0.01770738, 0.06617773, 0.04860707, 0.02193776])
+<div class="output text_plain highlight-myst-ansi notranslate"><div class="highlight"><pre><span></span>array([0.01768906, 0.04066909, 0.03647761, 0.02750024, 0.07772191,
+       0.10652929, 0.07717481, 0.06242162, 0.07265656, 0.08945234,
+       0.0482304 , 0.04260559, 0.075833  , 0.04040493, 0.01987899,
+       0.01458892, 0.05913904, 0.03788857, 0.0350111 , 0.01812693])
 </pre></div>
 </div>
 </div>
@@ -459,26 +459,26 @@
 </div>
 </div>
 <div class="cell_output docutils container">
-<div class="output text_plain highlight-myst-ansi notranslate"><div class="highlight"><pre><span></span>{8: 0.032639671745564314,
- 3: 0.0573677113789463,
- 18: 0.024942160037662708,
- 13: 0.05190683619612836,
- 19: 0.05952296970430072,
- 10: 0.022083002206294312,
- 12: 0.10244901015399217,
- 16: 0.021311938344943104,
- 6: 0.12429375672426346,
- 15: 0.1168721825991377,
- 4: 0.04058526837698405,
- 9: 0.020169972924233483,
- 11: 0.04262309034915124,
- 1: 0.08406093298254406,
- 14: 0.019421279035154358,
- 7: 0.02531958513478689,
- 17: 0.01770745853595147,
- 5: 0.06617804962445283,
- 0: 0.048607261289628965,
- 2: 0.021937862655879596}
+<div class="output text_plain highlight-myst-ansi notranslate"><div class="highlight"><pre><span></span>{0: 0.017688972050492646,
+ 16: 0.04066901355533149,
+ 6: 0.036477707871008035,
+ 12: 0.02750009904997474,
+ 1: 0.07772199479385326,
+ 5: 0.10652900200801357,
+ 13: 0.07717492884774745,
+ 17: 0.062422135163710174,
+ 15: 0.07265700224035669,
+ 14: 0.08945248457323142,
+ 7: 0.04823005029323108,
+ 11: 0.04260563287232839,
+ 10: 0.07583266932573471,
+ 19: 0.04040475005586697,
+ 9: 0.019878680266857223,
+ 3: 0.014589006566058464,
+ 2: 0.059139498320155796,
+ 8: 0.03788842506466396,
+ 18: 0.03501085399942825,
+ 4: 0.0181270930819558}
 </pre></div>
 </div>
 </div>

diff --git a/notebooks/06_least_squares_regression.html b/notebooks/06_least_squares_regression.html
@@ -389,11 +389,11 @@ y = c_0 + c_1 t + \epsilon
 </div>
 </div>
 <div class="cell_output docutils container">
-<div class="output text_plain highlight-myst-ansi notranslate"><div class="highlight"><pre><span></span>array([[1.        , 0.14844492],
-       [1.        , 0.14609758],
-       [1.        , 0.33486385],
-       [1.        , 0.83766754],
-       [1.        , 0.78204976]])
+<div class="output text_plain highlight-myst-ansi notranslate"><div class="highlight"><pre><span></span>array([[1.        , 0.90498146],
+       [1.        , 0.71885163],
+       [1.        , 0.32440207],
+       [1.        , 0.05995085],
+       [1.        , 0.76806357]])
 </pre></div>
 </div>
 </div>
@@ -407,7 +407,7 @@ y = c_0 + c_1 t + \epsilon
 </div>
 </div>
 <div class="cell_output docutils container">
-<div class="output stream highlight-myst-ansi notranslate"><div class="highlight"><pre><span></span>[ 6.9832831  -3.99957267]
+<div class="output stream highlight-myst-ansi notranslate"><div class="highlight"><pre><span></span>[ 6.97333208 -3.97394044]
 </pre></div>
 </div>
 </div>

diff --git a/notebooks/IntroductionToPythonPart2.html b/notebooks/IntroductionToPythonPart2.html
@@ -285,7 +285,7 @@
               <div>
                 
   <p>Last time we discussed how we can use the SymPy Library. We saw that it is useful for symbolic calculation but has problems if we are interested in the acutal numeric value.</p>
-<p><em>Today we talk about NumPy and the linear algebra subpackage SciPy [<code class="docutils literal notranslate"><span class="pre">scipy.linalg</span></code>]</em></p>
+<p><em>Here we talk about NumPy and the linear algebra subpackage SciPy [<code class="docutils literal notranslate"><span class="pre">scipy.linalg</span></code>]</em></p>
 <div class="section" id="introduction-to-python-part-2-numpy">
 <h1>Introduction to Python - Part 2: NumPy<a class="headerlink" href="#introduction-to-python-part-2-numpy" title="Permalink to this headline">¶</a></h1>
 <div class="cell docutils container">

diff --git a/notebooks/10_computing_eigenvalues.html b/notebooks/10_computing_eigenvalues.html
@@ -479,8 +479,8 @@ A \tilde{\mathbf{x}}_{k+1} = \mathbf{x}_k \\
 </div>
 </div>
 <div class="cell_output docutils container">
-<div class="output stream highlight-myst-ansi notranslate"><div class="highlight"><pre><span></span>Power method:  368.46202587233194
-SciPy:  368.4622314739834
+<div class="output stream highlight-myst-ansi notranslate"><div class="highlight"><pre><span></span>Power method:  381.9695150772683
+SciPy:  381.9695150778052
 </pre></div>
 </div>
 </div>

diff --git a/notebooks/07_pca.html b/notebooks/07_pca.html
@@ -299,8 +299,8 @@
 </div>
 </div>
 <div class="cell_output docutils container">
-<div class="output text_plain highlight-myst-ansi notranslate"><div class="highlight"><pre><span></span>array([[ 0.86380097,  0.50383318],
-       [-0.50383318,  0.86380097]])
+<div class="output text_plain highlight-myst-ansi notranslate"><div class="highlight"><pre><span></span>array([[ 0.87275472,  0.48815899],
+       [-0.48815899,  0.87275472]])
 </pre></div>
 </div>
 </div>

diff --git a/notebooks/03_polynomial_interpolation.html b/notebooks/03_polynomial_interpolation.html
@@ -406,7 +406,7 @@ c_0 + c_1t_d + \cdots + c_d t_d^d &amp;= y_d
 </div>
 </div>
 <div class="cell_output docutils container">
-<div class="output text_plain highlight-myst-ansi notranslate"><div class="highlight"><pre><span></span>115575244.6289977
+<div class="output text_plain highlight-myst-ansi notranslate"><div class="highlight"><pre><span></span>115575244.64217655
 </pre></div>
 </div>
 </div>

diff --git a/notebooks/04_spline_interpolation.html b/notebooks/04_spline_interpolation.html
@@ -355,7 +355,7 @@
 </div>
 </div>
 <div class="cell_output docutils container">
-<div class="output text_plain highlight-myst-ansi notranslate"><div class="highlight"><pre><span></span>14.530258040767446
+<div class="output text_plain highlight-myst-ansi notranslate"><div class="highlight"><pre><span></span>14.530258040767459
 </pre></div>
 </div>
 </div>

diff --git a/notebooks/08_deblurring_images.html b/notebooks/08_deblurring_images.html
@@ -328,7 +328,7 @@
 </div>
 </div>
 <div class="cell_output docutils container">
-<div class="output text_plain highlight-myst-ansi notranslate"><div class="highlight"><pre><span></span>24782.331042560716
+<div class="output text_plain highlight-myst-ansi notranslate"><div class="highlight"><pre><span></span>24782.331042562946
 </pre></div>
 </div>
 </div>

diff --git a/notebooks/01_linear_systems.html b/notebooks/01_linear_systems.html
@@ -490,6 +490,9 @@ A =
  [ 5.]]
 </pre></div>
 </div>
+<div class="output stream highlight-myst-ansi notranslate"><div class="highlight"><pre><span></span>
+</pre></div>
+</div>
 </div>
 </div>
 </div>
